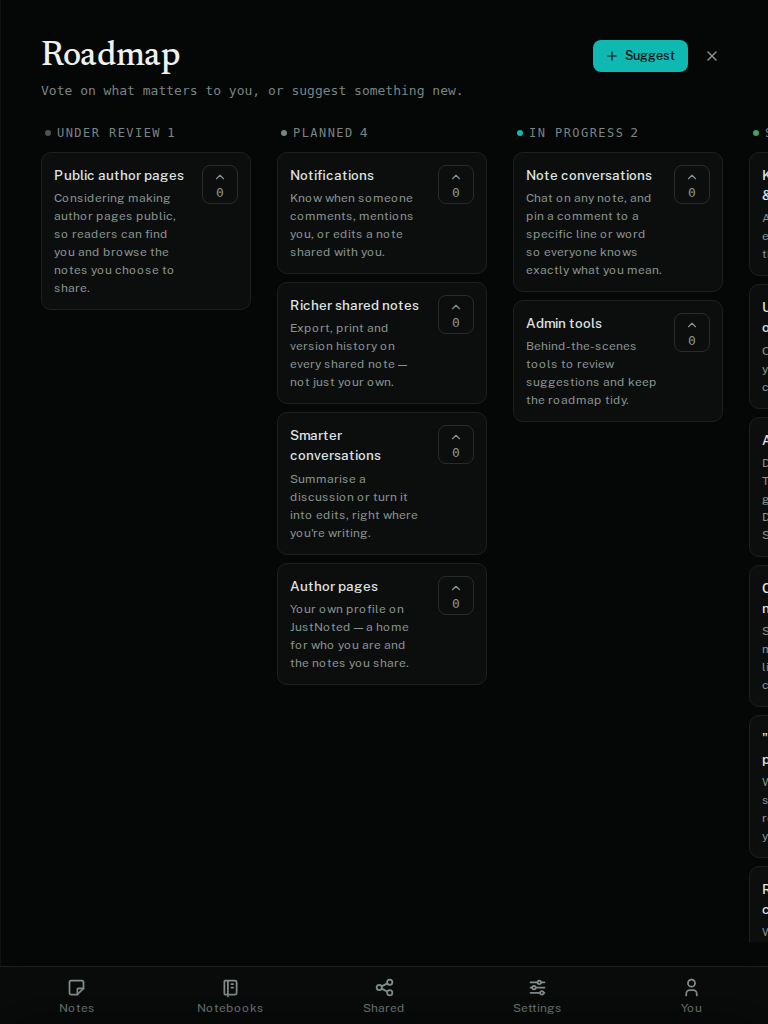
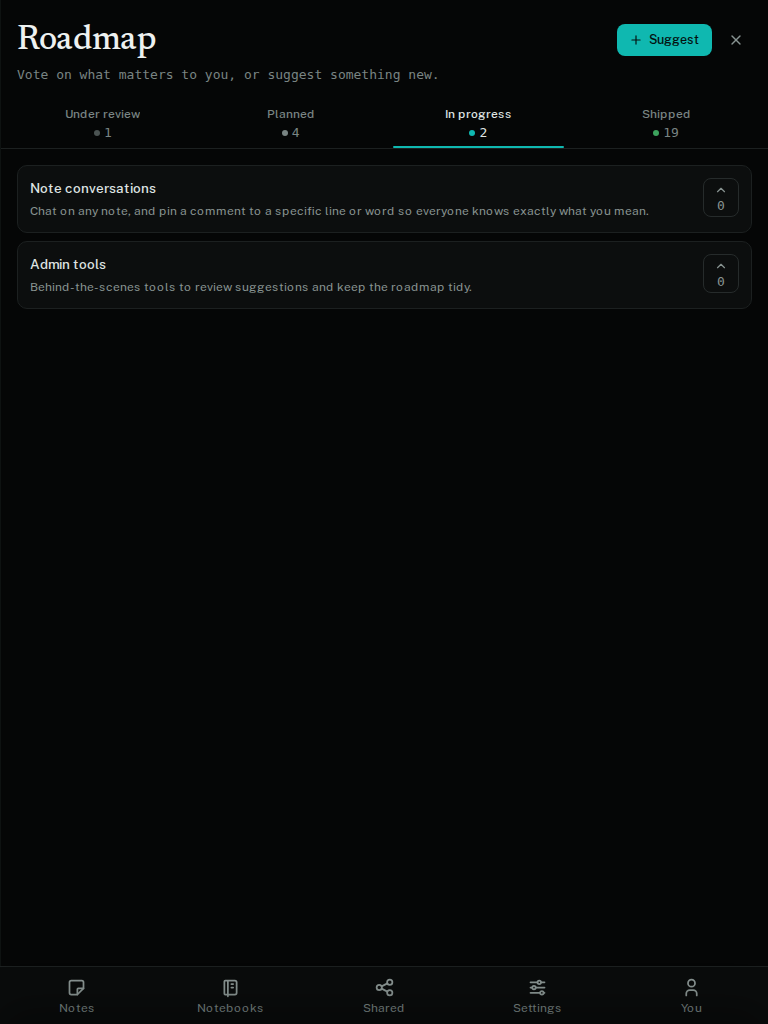
Roadmap: tabbed swipe layout below 1024px (lg), columns only when all four fit
The four-column board now starts at Tailwind lg (1024px) instead of md
(768px), so tablets get the tab bar + scroll-snap strip rather than a
sideways-scrolling board. To fit four columns at 1024 beside the rail,
the column minimum drops 220 -> 200px and the side padding is 32px at lg
(40px from xl).

E2E: 768 now asserts the tabbed layout; new boundary checks at 1024 (four
columns, no sideways scroll) and 1023 (tabs). Screenshots: tablet after
shots refreshed (+ Shipped tab), new 1024 laptop shot.

diff --git a/src/components/roadmap-view.tsx b/src/components/roadmap-view.tsx
@@ -2,7 +2,6 @@
 
 import React, { useCallback, useEffect, useLayoutEffect, useMemo, useRef, useState } from "react";
 import { useEscapeLayer } from "@/utils/escape-stack";
-import { MOBILE_BREAKPOINT } from "@/constants/app";
 import { defaultRoadmapTab, nextTabIndex, panelIndexAt } from "@/utils/roadmap-tabs";
 import { useRouter } from "next/navigation";
 import { createPortal } from "react-dom";
@@ -26,15 +25,18 @@ const COLUMNS: { status: string; label: string; dot: string }[] = [
   { status: "shipped", label: "Shipped", dot: "#3DA35D" },
 ];
 
-// Phone layout (below the app's mobile breakpoint, = Tailwind `md`): a tab bar
-// over a horizontal scroll-snap strip, one full-width list per screen. md and up:
-// the four lists side by side. Both are the same DOM; only classes differ.
-const MOBILE_QUERY = `(max-width: ${MOBILE_BREAKPOINT - 0.02}px)`;
+// Tabbed layout below Tailwind `lg` (1024px): a tab bar over a horizontal
+// scroll-snap strip, one full-width list per screen. lg and up: the four lists
+// side by side — only from the width where all four fit at their minimum, so the
+// board never scrolls sideways. Same DOM for both; only classes differ.
+// Keep in sync with the `lg:` classes below.
+const TABS_BELOW_PX = 1024;
+const MOBILE_QUERY = `(max-width: ${TABS_BELOW_PX - 0.02}px)`;
 const PREFERRED_TAB = COLUMNS.findIndex((c) => c.status === "in_progress");
 const tabId = (status: string) => `roadmap-tab-${status}`;
 const panelId = (status: string) => `roadmap-panel-${status}`;
 
-function isPhone() {
+function isTabbed() {
   return typeof window !== "undefined" && window.matchMedia(MOBILE_QUERY).matches;
 }
 
@@ -89,13 +91,13 @@ export default function RoadmapView() {
     return m;
   }, [items]);
 
-  // ── Phone tabs ↔ scroll-snap strip ──────────────────────────────────────────
+  // ── Tabs ↔ scroll-snap strip (< lg) ──────────────────────────────────────────
   const scrollerRef = useRef<HTMLDivElement>(null);
   const tabRefs = useRef<(HTMLButtonElement | null)[]>([]);
   const [active, setActive] = useState(PREFERRED_TAB);
   const activeRef = useRef(active);
   activeRef.current = active;
-  const [phone, setPhone] = useState(false); // ARIA roles only; layout is CSS
+  const [tabbed, setTabbed] = useState(false); // ARIA roles only; layout is CSS
   // A tab tap scrolls smoothly through the lists in between; ignore those
   // intermediate positions so the active tab doesn't flicker across them.
   const seeking = useRef<number | null>(null);
@@ -104,7 +106,7 @@ export default function RoadmapView() {
 
   useEffect(() => {
     const mq = window.matchMedia(MOBILE_QUERY);
-    const sync = () => setPhone(mq.matches);
+    const sync = () => setTabbed(mq.matches);
     sync();
     mq.addEventListener("change", sync);
     return () => mq.removeEventListener("change", sync);
@@ -112,7 +114,7 @@ export default function RoadmapView() {
 
   const scrollToPanel = useCallback((idx: number, smooth: boolean) => {
     const el = scrollerRef.current;
-    if (!el || !isPhone()) return;
+    if (!el || !isTabbed()) return;
     const left = idx * el.clientWidth;
     if (Math.abs(el.scrollLeft - left) < 1) return;
     const animate = smooth && !prefersReducedMotion();
@@ -138,7 +140,7 @@ export default function RoadmapView() {
   // Swiping updates the active tab.
   const syncFromScroll = useCallback((settled: boolean) => {
     const el = scrollerRef.current;
-    if (!el || !isPhone()) return;
+    if (!el || !isTabbed()) return;
     const idx = panelIndexAt(el.scrollLeft, el.clientWidth, COLUMNS.length);
     if (seeking.current !== null) {
       if (!settled && idx !== seeking.current) return;
@@ -157,7 +159,7 @@ export default function RoadmapView() {
     el.addEventListener("scrollend", onScrollEnd);
     // Rotation / resize: keep the active list in view at the new width.
     const ro = new ResizeObserver(() => {
-      if (!isPhone()) return;
+      if (!isTabbed()) return;
       seeking.current = null;
       el.scrollTo({ left: activeRef.current * el.clientWidth, behavior: "auto" });
     });
@@ -287,7 +289,7 @@ export default function RoadmapView() {
     // page itself never scrolls — each list scrolls on its own.
     <div data-testid="roadmap" className="flex-1 min-h-0 flex flex-col overflow-hidden bg-[var(--color-canvas)]">
       {/* Header */}
-      <div className="shrink-0 mx-auto w-full max-w-[1200px] px-4 md:px-10 pt-6 pb-4 md:pt-10 md:pb-6">
+      <div className="shrink-0 mx-auto w-full max-w-[1200px] px-4 lg:px-8 xl:px-10 pt-6 pb-4 lg:pt-10 lg:pb-6">
         <div className="flex items-start justify-between gap-4">
           <div>
             <h1 className="font-[family-name:var(--font-editor)] text-[34px] leading-[1.05] font-medium tracking-[-0.01em] text-[var(--color-ink)]">
@@ -315,12 +317,12 @@ export default function RoadmapView() {
         </div>
       </div>
 
-      {/* Phone tab bar: all four lists, one tap away. Fixed-height tabs, and the
+      {/* Tab bar (< lg): all four lists, one tap away. Fixed-height tabs, and the
           active state changes colour only (no weight change) — no layout shift. */}
       <div
         role="tablist"
         aria-label="Roadmap lists"
-        className="md:hidden shrink-0 grid grid-cols-4 px-2 border-b border-[var(--color-hairline)]"
+        className="lg:hidden shrink-0 grid grid-cols-4 px-2 border-b border-[var(--color-hairline)]"
       >
         {COLUMNS.map((col, i) => {
           const selected = i === active;
@@ -359,12 +361,11 @@ export default function RoadmapView() {
         })}
       </div>
 
-      {/* Board. Phone: horizontal scroll-snap strip, one full-width list per
-          screen. md+: four columns side by side (scrolls sideways if narrower than
-          four minimum-width columns, e.g. tablet portrait). */}
+      {/* Board. Below lg: horizontal scroll-snap strip, one full-width list per
+          screen. lg+: four columns side by side. */}
       <div
         ref={scrollerRef}
-        className="flex-1 min-h-0 flex overflow-x-auto overflow-y-hidden snap-x snap-mandatory overscroll-x-contain [scrollbar-width:none] [&::-webkit-scrollbar]:hidden md:snap-none md:gap-4 md:mx-auto md:w-full md:max-w-[1200px] md:px-10 md:pb-6 md:[scrollbar-width:thin] md:[&::-webkit-scrollbar]:block"
+        className="flex-1 min-h-0 flex overflow-x-auto overflow-y-hidden snap-x snap-mandatory overscroll-x-contain [scrollbar-width:none] [&::-webkit-scrollbar]:hidden lg:snap-none lg:gap-4 lg:mx-auto lg:w-full lg:max-w-[1200px] lg:px-8 xl:px-10 lg:pb-6 lg:[scrollbar-width:thin] lg:[&::-webkit-scrollbar]:block"
       >
         {COLUMNS.map((col) => {
           const colItems = byStatus.get(col.status) ?? [];
@@ -372,12 +373,12 @@ export default function RoadmapView() {
             <section
               key={col.status}
               id={panelId(col.status)}
-              aria-label={phone ? undefined : col.label}
-              {...(phone ? { role: "tabpanel", "aria-labelledby": tabId(col.status) } : {})}
-              className="shrink-0 basis-full min-w-0 snap-start snap-always flex flex-col min-h-0 md:shrink md:basis-0 md:flex-1 md:min-w-[220px] md:max-w-[320px]"
+              aria-label={tabbed ? undefined : col.label}
+              {...(tabbed ? { role: "tabpanel", "aria-labelledby": tabId(col.status) } : {})}
+              className="shrink-0 basis-full min-w-0 snap-start snap-always flex flex-col min-h-0 lg:shrink lg:basis-0 lg:flex-1 lg:min-w-[200px] lg:max-w-[320px]"
             >
-              {/* Column header (md+): stays put while the list below scrolls. */}
-              <div className="hidden md:flex shrink-0 items-center gap-1.5 mb-2.5 px-1">
+              {/* Column header (lg+): stays put while the list below scrolls. */}
+              <div className="hidden lg:flex shrink-0 items-center gap-1.5 mb-2.5 px-1">
                 <span className="w-1.5 h-1.5 rounded-full shrink-0" style={{ background: col.dot }} />
                 <span className="text-label font-[family-name:var(--font-meta)] uppercase tracking-[0.12em] text-[var(--color-ink-5)]">
                   {col.label}
@@ -388,7 +389,7 @@ export default function RoadmapView() {
               </div>
               <div
                 data-testid={`roadmap-list-${col.status}`}
-                className="flex-1 min-h-0 overflow-y-auto overscroll-y-contain scrollbar-thin px-4 pt-4 pb-6 md:p-0 md:[scrollbar-gutter:stable]"
+                className="flex-1 min-h-0 overflow-y-auto overscroll-y-contain scrollbar-thin px-4 pt-4 pb-6 lg:p-0 lg:[scrollbar-gutter:stable]"
               >
                 <div className="flex flex-col gap-2">
                   {items === null ? (

diff --git a/e2e/roadmap-layout.spec.ts b/e2e/roadmap-layout.spec.ts
@@ -1,10 +1,12 @@
 import { test, expect, type Page } from "@playwright/test";
 
 // Roadmap layout: the page fits the viewport and each list scrolls on its own
-// (md+: four columns; phone: a tab bar over a scroll-snap strip). Guest visitor;
+// (lg+ / 1024px: four columns; below: a tab bar over a scroll-snap strip). Guest visitor;
 // relies on the local DB's published roadmap items (Shipped must overflow).
 
 const LIST = (status: string) => `[data-testid="roadmap-list-${status}"]`;
+const STRIP = '[data-testid="roadmap"] [role="tablist"] + div';
+const ALL = ["under_review", "planned", "in_progress", "shipped"];
 
 async function openRoadmap(page: Page) {
   await page.goto("/roadmap");
@@ -33,7 +35,7 @@ test.describe("roadmap — desktop", () => {
 
     // Four columns side by side.
     const tops = await Promise.all(
-      ["under_review", "planned", "in_progress", "shipped"].map(async (s) => (await page.locator(LIST(s)).boundingBox())!.y),
+      ALL.map(async (s) => (await page.locator(LIST(s)).boundingBox())!.y),
     );
     expect(new Set(tops).size).toBe(1);
 
@@ -50,16 +52,51 @@ test.describe("roadmap — desktop", () => {
   });
 });
 
-test.describe("roadmap — tablet", () => {
-  test.use({ viewport: { width: 768, height: 1024 } });
+test.describe("roadmap — lg breakpoint (1024)", () => {
+  test.use({ viewport: { width: 1024, height: 768 } });
 
-  test("uses the column layout at the breakpoint", async ({ page }) => {
+  test("all four columns fit without a sideways scroll", async ({ page }) => {
     await openRoadmap(page);
     await expect(page.getByRole("tablist")).toBeHidden();
-    const a = (await page.locator(LIST("under_review")).boundingBox())!;
-    const b = (await page.locator(LIST("planned")).boundingBox())!;
-    expect(b.y).toBe(a.y);
-    expect(b.x).toBeGreaterThan(a.x);
+    const boxes = await Promise.all(ALL.map(async (s) => (await page.locator(LIST(s)).boundingBox())!));
+    expect(new Set(boxes.map((b) => b.y)).size).toBe(1);
+    for (const s of ALL) await expect(page.locator(LIST(s))).toBeInViewport({ ratio: 1 });
+    const board = await page.locator(STRIP).evaluate((el) => ({ sw: el.scrollWidth, cw: el.clientWidth }));
+    expect(board.sw).toBeLessThanOrEqual(board.cw);
+    expect(await pageScrolls(page)).toEqual({ doc: false, root: false });
+  });
+});
+
+test.describe("roadmap — just below lg (1023)", () => {
+  test.use({ viewport: { width: 1023, height: 768 } });
+
+  test("switches to the tabbed layout", async ({ page }) => {
+    await openRoadmap(page);
+    await expect(page.getByRole("tablist")).toBeVisible();
+    await expect(page.getByRole("tab")).toHaveCount(4);
+  });
+});
+
+test.describe("roadmap — tablet (768)", () => {
+  test.use({ viewport: { width: 768, height: 1024 }, hasTouch: true });
+
+  test("uses the tabbed layout: one full-width list, tabs drive it", async ({ page }) => {
+    await openRoadmap(page);
+    expect(await pageScrolls(page)).toEqual({ doc: false, root: false });
+    await expect(page.getByRole("tab")).toHaveCount(4);
+    await expect(page.getByRole("tab", { name: /In progress/ })).toHaveAttribute("aria-selected", "true");
+
+    const width = await page.locator(STRIP).evaluate((el) => el.clientWidth);
+    const panel = page.getByRole("tabpanel", { name: /In progress/ });
+    await expect(panel).toBeInViewport({ ratio: 0.9 });
+    expect((await panel.boundingBox())!.width).toBeCloseTo(width, 0);
+
+    await page.getByRole("tab", { name: /Shipped/ }).click();
+    await expect(page.getByRole("tab", { name: /Shipped/ })).toHaveAttribute("aria-selected", "true");
+    await expect(page.getByRole("tabpanel", { name: /Shipped/ })).toBeInViewport({ ratio: 0.9 });
+    const shipped = page.locator(LIST("shipped"));
+    await shipped.evaluate((el) => el.scrollBy(0, 400));
+    await expect.poll(() => shipped.evaluate((el) => el.scrollTop)).toBeGreaterThan(0);
     expect(await pageScrolls(page)).toEqual({ doc: false, root: false });
   });
 });
@@ -67,8 +104,7 @@ test.describe("roadmap — tablet", () => {
 test.describe("roadmap — phone", () => {
   test.use({ viewport: { width: 390, height: 844 }, isMobile: true, hasTouch: true });
 
-  const scrollLeft = (page: Page) =>
-    page.locator('[data-testid="roadmap"] [role="tablist"] + div').evaluate((el) => el.scrollLeft);
+  const scrollLeft = (page: Page) => page.locator(STRIP).evaluate((el) => el.scrollLeft);
 
   test("tabs drive the snap strip and follow swipes", async ({ page }) => {
     await openRoadmap(page);
@@ -99,7 +135,7 @@ test.describe("roadmap — phone", () => {
     expect(await page.getByRole("tablist").boundingBox()).toEqual(barBefore);
 
     // Swipe (scroll the strip) → active tab follows.
-    await page.locator('[data-testid="roadmap"] [role="tablist"] + div').evaluate((el) => el.scrollTo({ left: 0 }));
+    await page.locator(STRIP).evaluate((el) => el.scrollTo({ left: 0 }));
     await expect(page.getByRole("tab", { name: /Under review/ })).toHaveAttribute("aria-selected", "true");
     expect(await scrollLeft(page)).toBe(0);
 
@@ -122,9 +158,7 @@ test.describe("roadmap — phone", () => {
   test("reduced motion: tab taps jump without a smooth scroll", async ({ page }) => {
     await page.emulateMedia({ reducedMotion: "reduce" });
     await openRoadmap(page);
-    const width = await page
-      .locator('[data-testid="roadmap"] [role="tablist"] + div')
-      .evaluate((el) => el.clientWidth);
+    const width = await page.locator(STRIP).evaluate((el) => el.clientWidth);
     await page.getByRole("tab", { name: /Under review/ }).click();
     // Checked synchronously after the click: a smooth scroll would still be in flight.
     expect(await scrollLeft(page)).toBe(0);

diff --git a/e2e/roadmap-screens.spec.ts b/e2e/roadmap-screens.spec.ts
@@ -1,18 +1,19 @@
 import { test, type Page } from "@playwright/test";
 
 // Screenshot harness for the roadmap layout (not a check — skipped unless
-// SHOTS_TAG is set). Guest visitor, dark theme, at 1440 / 768 / 390:
+// SHOTS_TAG is set). Guest visitor, dark theme, at 1440 / 1024 / 768 / 390:
 //
 //   SHOTS_TAG=after npx playwright test roadmap-screens
 //
-// Files land in docs/screenshots/roadmap-<viewport>-dark-<tag>.png. On phone it
-// also captures the Shipped list after tapping its tab.
+// Files land in docs/screenshots/roadmap-<viewport>-dark-<tag>.png. Below lg (tablet,
+// phone) it also captures the Shipped list after tapping its tab.
 
 const TAG = process.env.SHOTS_TAG;
 const OUT = "docs/screenshots";
 
 const VIEWPORTS = {
   desktop: { viewport: { width: 1440, height: 900 } },
+  laptop: { viewport: { width: 1024, height: 768 } },
   tablet: { viewport: { width: 768, height: 1024 }, hasTouch: true },
   phone: { viewport: { width: 390, height: 844 }, isMobile: true, hasTouch: true, deviceScaleFactor: 2 },
 } as const;
@@ -40,7 +41,7 @@ test.describe("roadmap screenshots", () => {
       await shoot(page, `roadmap-${vp}-dark`);
 
       const shippedTab = page.getByRole("tab", { name: /shipped/i });
-      if (vp === "phone" && (await shippedTab.isVisible().catch(() => false))) {
+      if ((vp === "phone" || vp === "tablet") && (await shippedTab.isVisible().catch(() => false))) {
         await shippedTab.click();
         await page.waitForTimeout(800);
         await shoot(page, `roadmap-${vp}-shipped-dark`);
